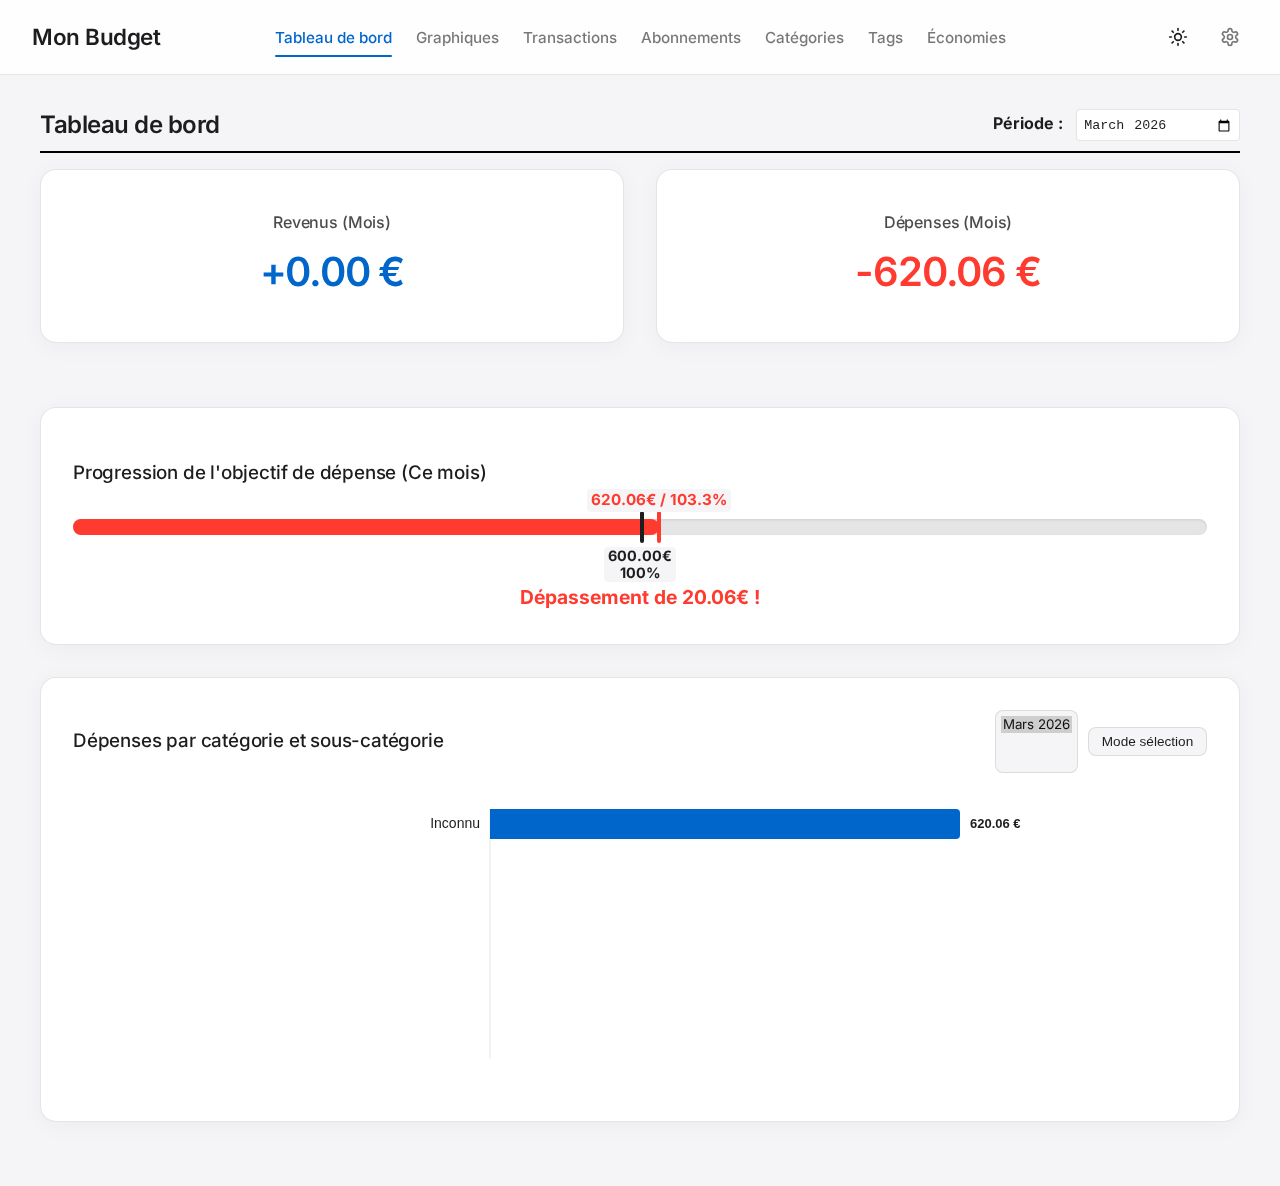
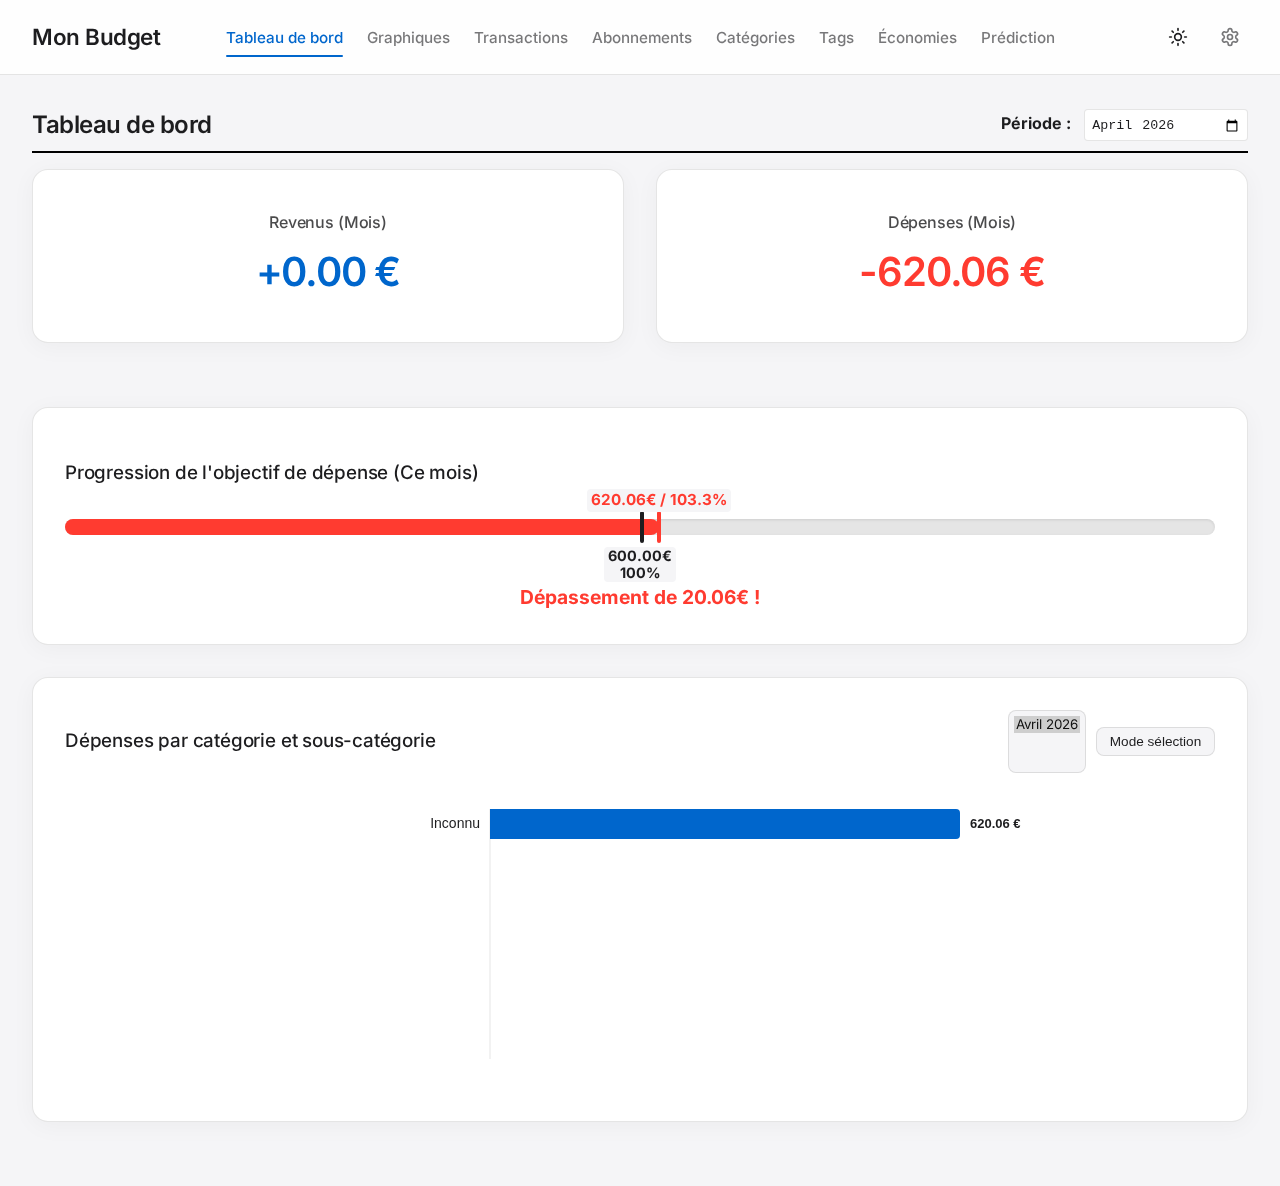
Optimize mobile transaction card layout
Moved action buttons (edit/delete) to the same line as the date to save vertical space.
Moved tags to a new line below the date and actions.

diff --git a/style.css b/style.css
@@ -664,10 +664,10 @@ h3 {
     /* Tags */
     #table-transactions tbody td[data-label="Tags"],
     #table-modal-transactions tbody td[data-label="Tags"] {
-        order: 5;
-        width: 50%;
-        justify-content: flex-end;
-        margin-top: 0.1rem;
+        order: 6;
+        width: 100%;
+        justify-content: flex-start;
+        margin-top: 0.5rem;
     }
     #table-transactions tbody td[data-label="Tags"]:empty,
     #table-modal-transactions tbody td[data-label="Tags"]:empty {
@@ -733,8 +733,6 @@ h3 {
     }
 
     /* Actions à la fin de la carte */
-    #table-transactions tbody td[data-label="Actions"],
-    #table-modal-transactions tbody td[data-label="Actions"],
     #table-subscriptions tbody td[data-label="Actions"] {
         order: 99; /* Toujours à la fin */
         justify-content: flex-end;
@@ -743,6 +741,18 @@ h3 {
         padding-top: 0.8rem;
         border-top: 1px solid var(--border-color);
         width: 100%; /* S'assurer qu'il prend toute la largeur */
+    }
+
+    /* Actions Transactions (sur la même ligne que la date) */
+    #table-transactions tbody td[data-label="Actions"],
+    #table-modal-transactions tbody td[data-label="Actions"] {
+        order: 5;
+        width: 50%;
+        justify-content: flex-end;
+        gap: 0.5rem;
+        margin-top: 0.1rem;
+        padding-top: 0;
+        border-top: none;
     }
 
     /* Autres tables (Tags, Économies) en cartes aussi */
